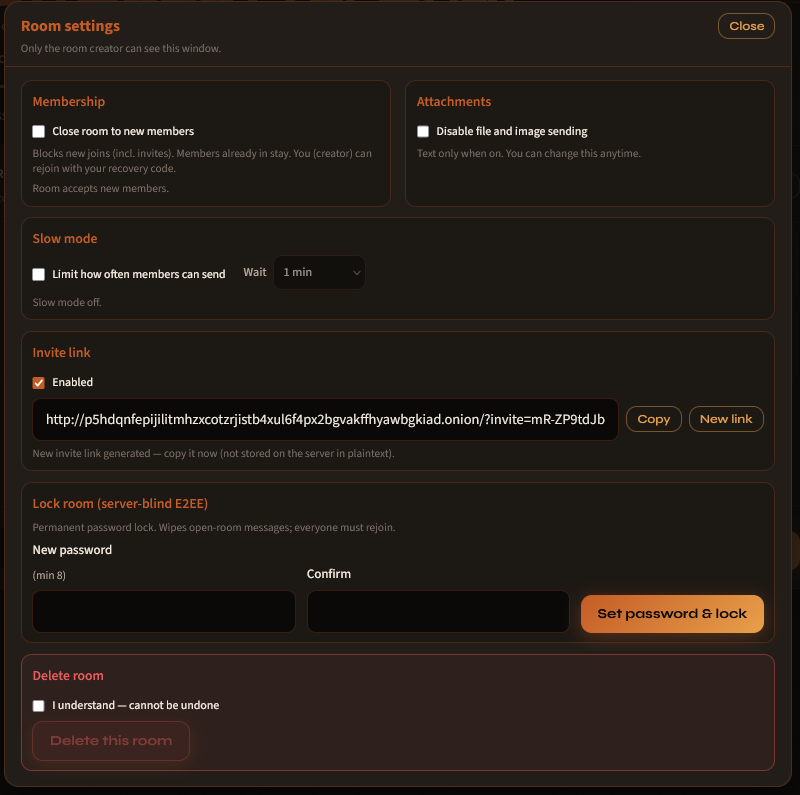
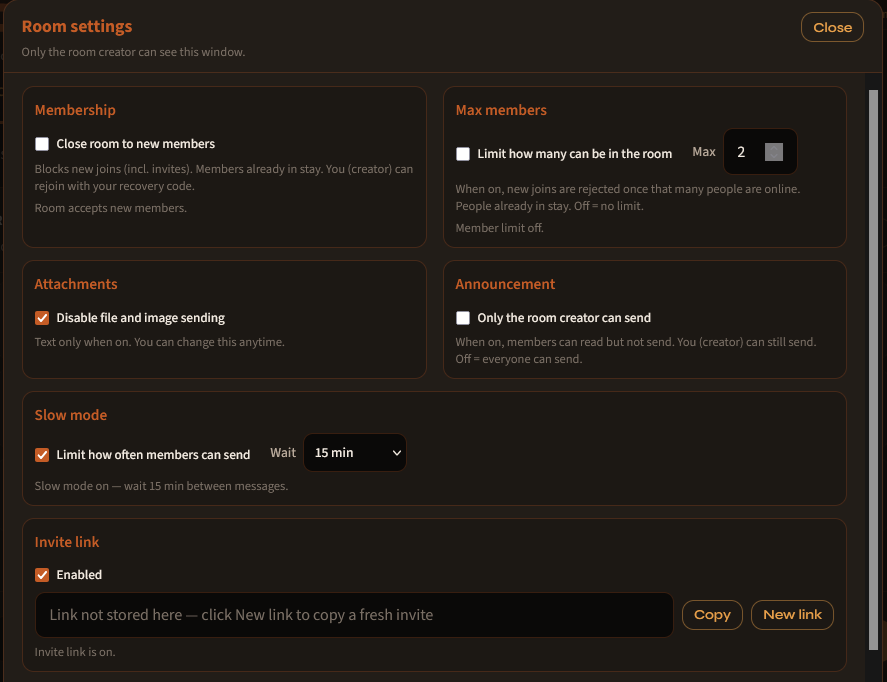
Add files via upload

diff --git a/TorChatPage.html b/TorChatPage.html
@@ -451,6 +451,18 @@
  <span class="screenshot-zoom-hint">Click to enlarge</span>
  </figcaption>
  </figure>
+ <figure class="at-feature-card screenshot-card">
+ <div class="screenshot-frame">
+ <img src="RoomSettings2.png" width="1200" height="630"
+ alt="OffCode TorChat room Settings: max members, announcement read-only, and more creator options"
+ loading="lazy" decoding="async"
+ data-full="RoomSettings2.png"
+ data-title="Room Settings: max members and announcement mode">
+ </div>
+ <figcaption>Room Settings: max members, announcement / read-only, more options
+ <span class="screenshot-zoom-hint">Click to enlarge</span>
+ </figcaption>
+ </figure>
  </div>
  <div class="features-carousel-dots" role="tablist"
  aria-label="Screenshot slides"></div>
